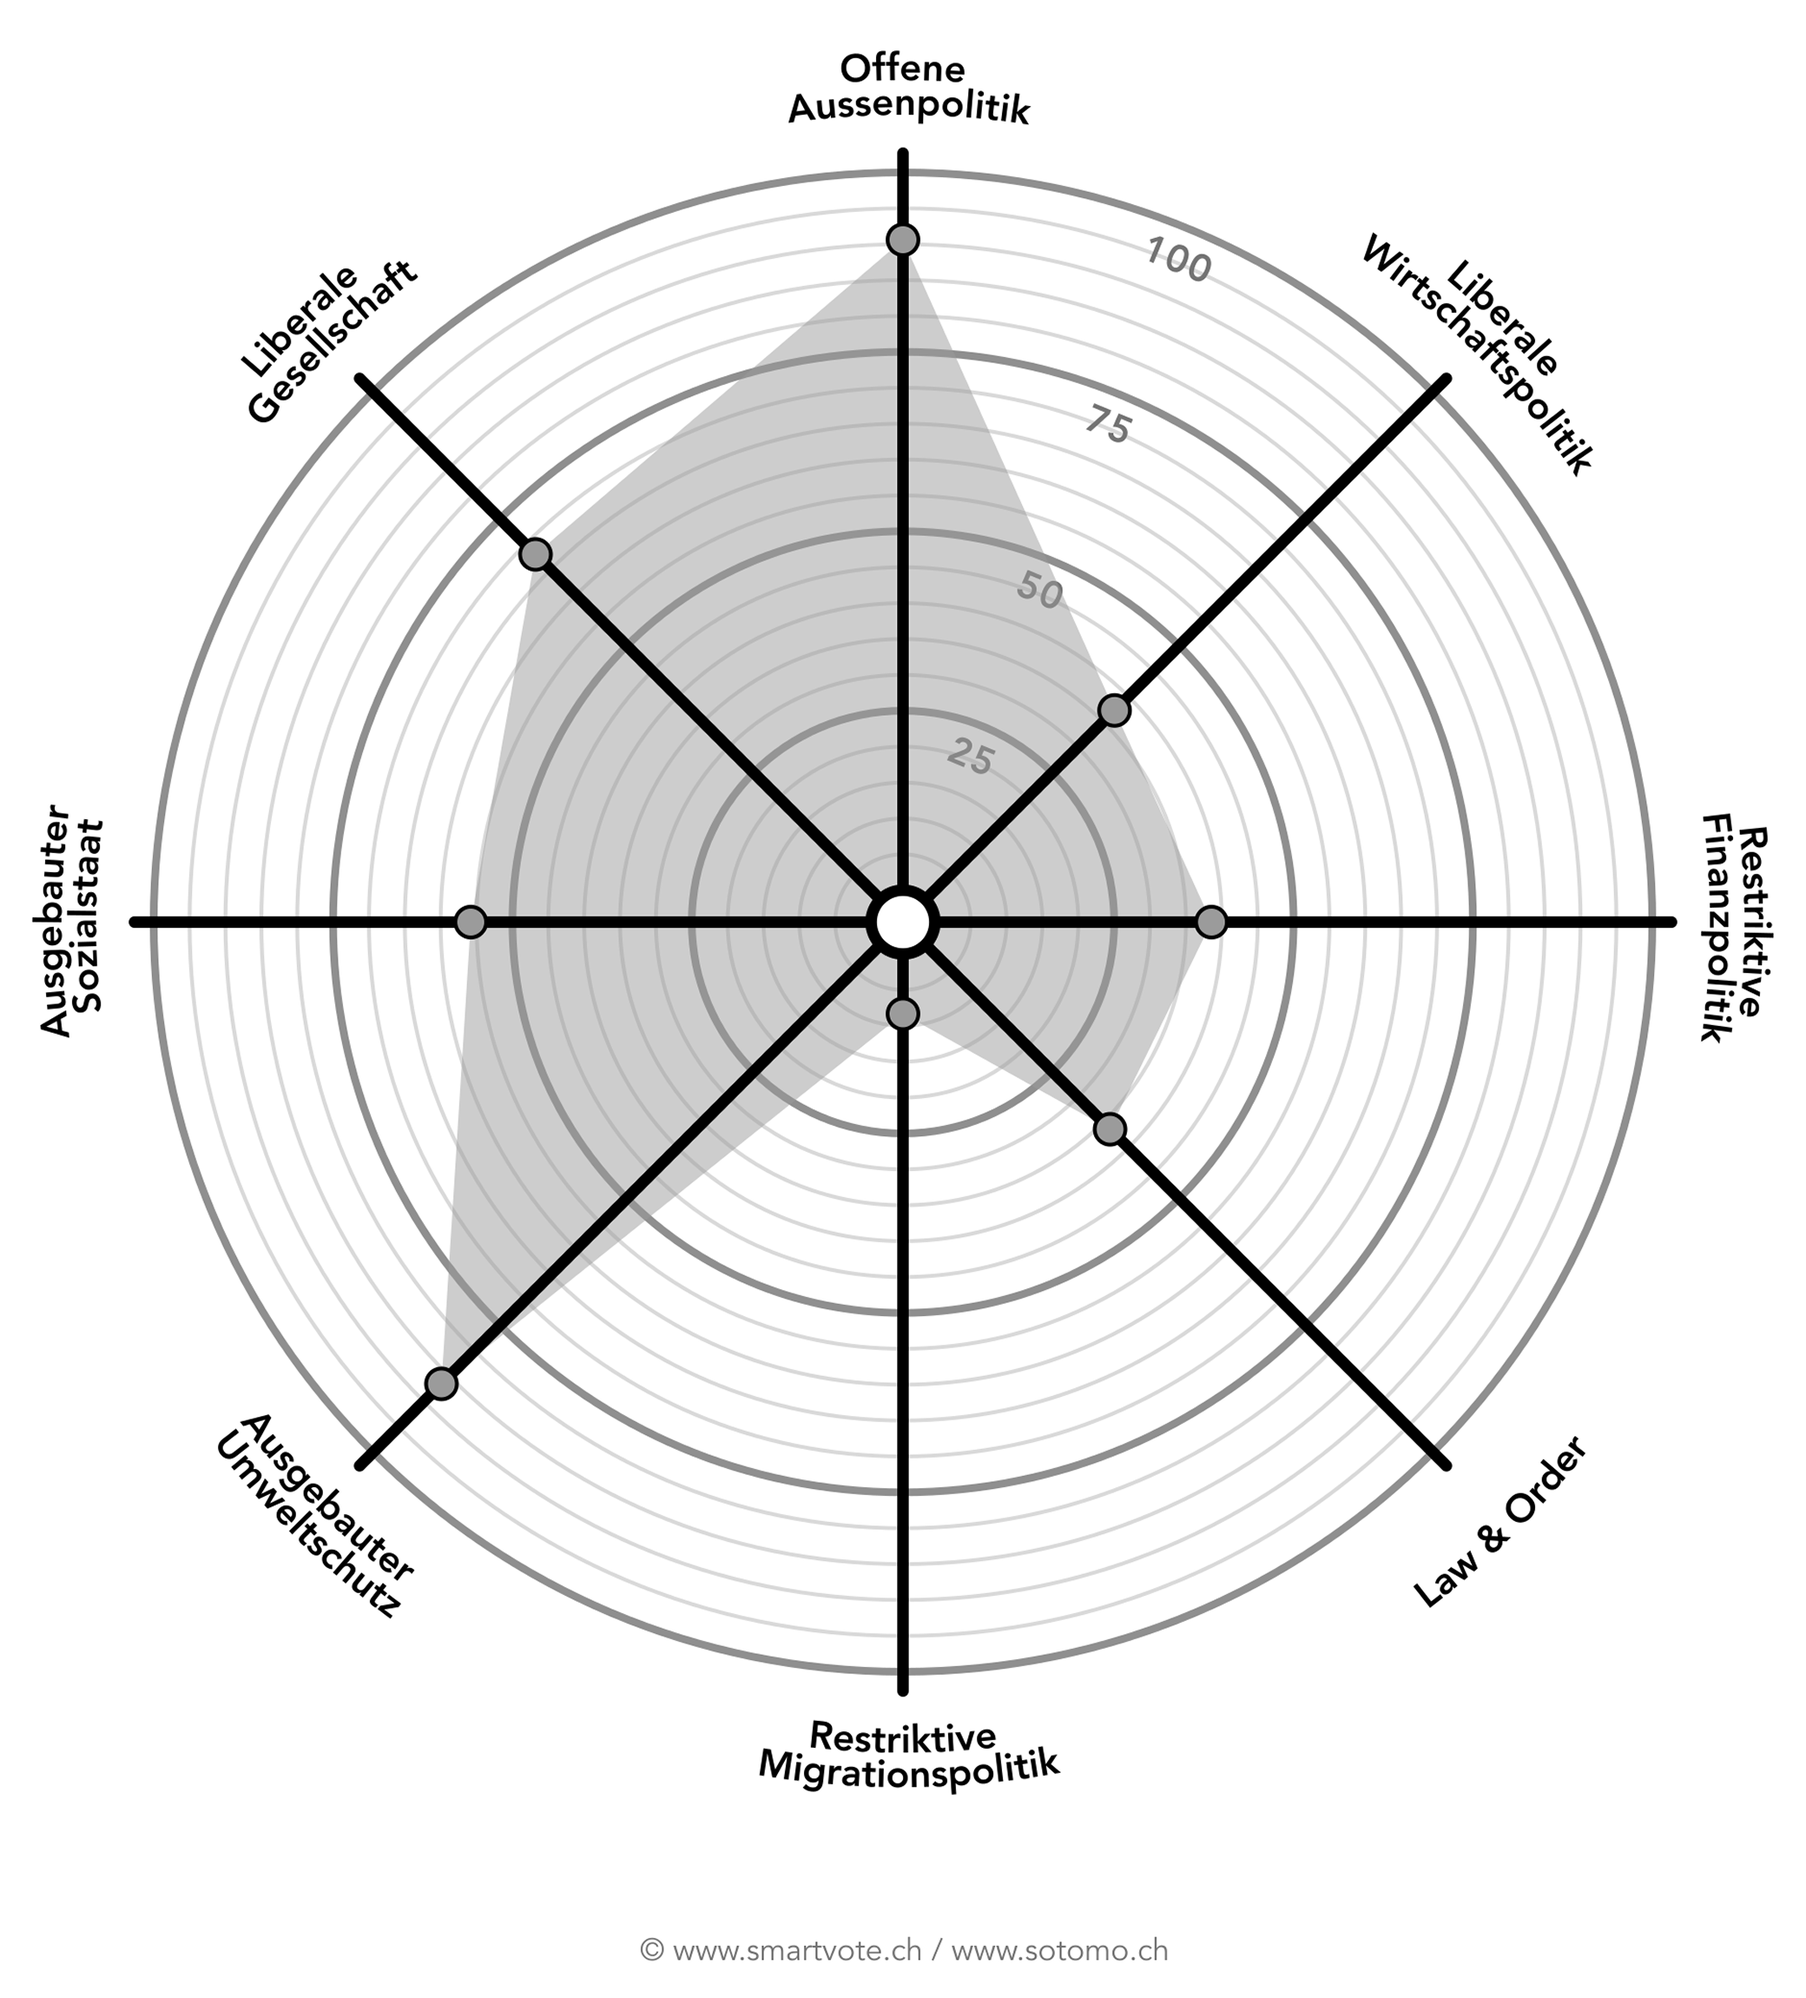
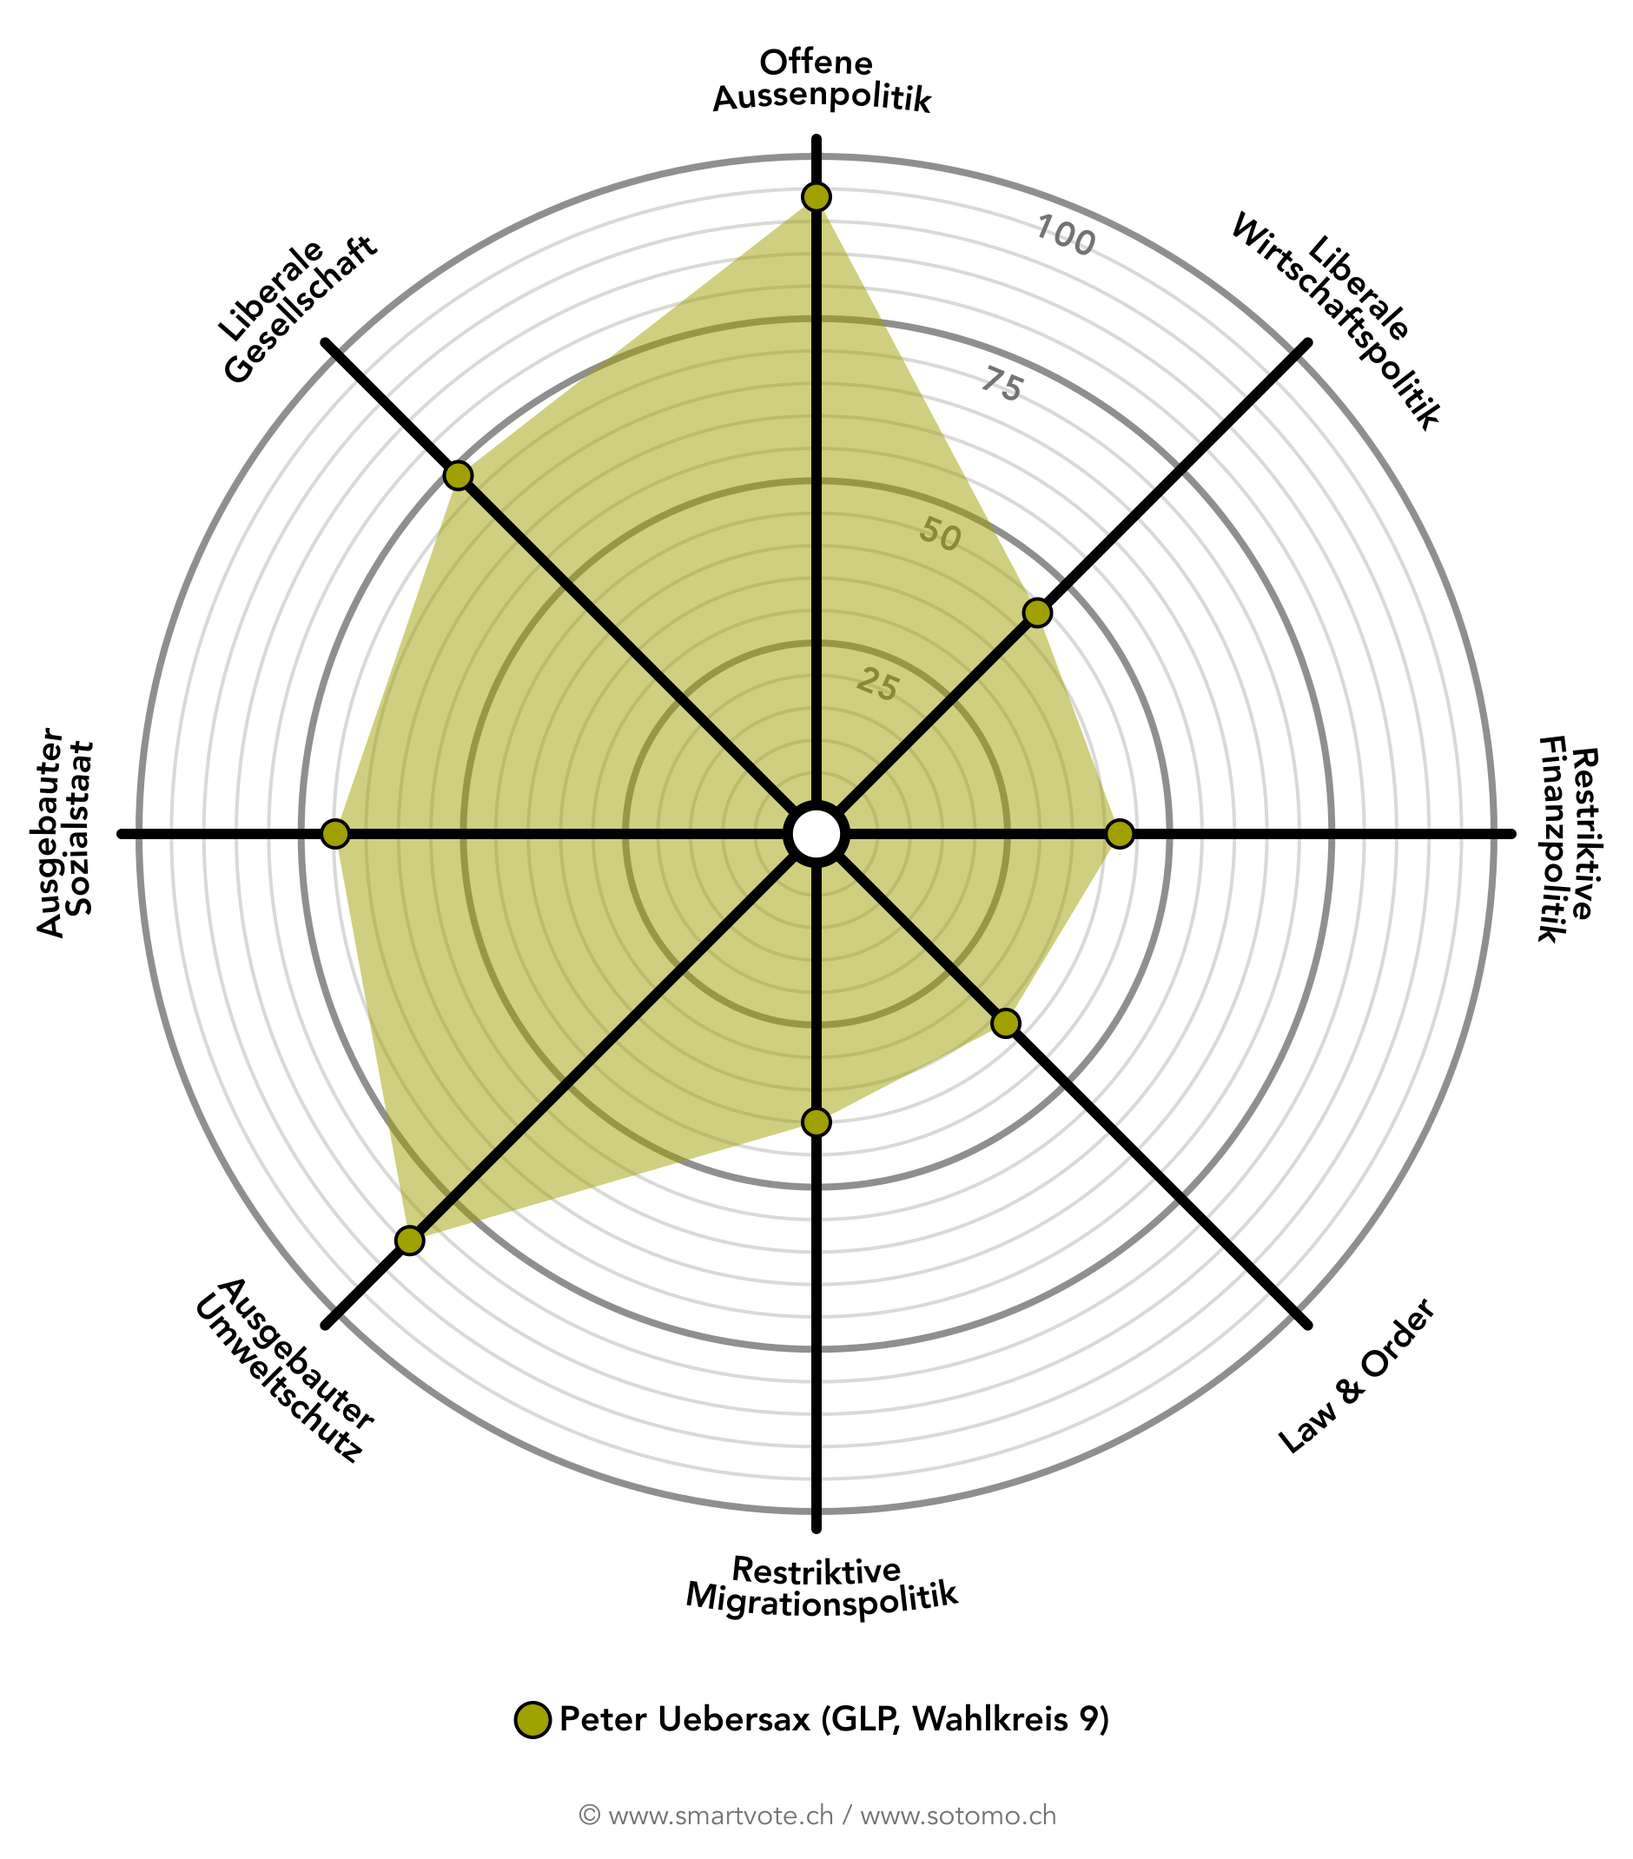
1. send email made with js. 2. medien page  updated 3. Kontakte => Kontakt

Changed region(s): [[0.0, 0.0308, 0.9872, 0.9561], [0.7713, 0.7093, 0.8947, 0.8019], [0.3085, 0.8944, 0.3702, 0.9561]]

diff --git a/pages/contacts.html b/pages/contacts.html
@@ -7,6 +7,7 @@
     <link rel="icon" href="../img/leaf.png" type="image/png">
     <link rel="stylesheet" href="../css/contacts.css" />
     <script src="../JS/burger.js" defer></script>
+    <script src="../JS/contacts.js" defer></script>
   </head>
   <body>
     <header class="header">
@@ -25,7 +26,7 @@
           </li>
           <li class="burger_menu__item"><a href="medien.html">Medien</a></li>
           <li class="burger_menu__item">
-            <a href="contacts.html">Kontakte</a>
+            <a href="contacts.html">Kontakt</a>
           </li>
         </ul>
       </nav>
@@ -46,7 +47,7 @@
       </section>
 
       <section class="contacts">
-        <h3 class="contacts__title">Kontakte</h3>
+        <h3 class="contacts__title">Kontakt</h3>
         <div class="contacts__wrapper">
           <ul class="contacts__list">
             <li class="contacts__list__item">
@@ -55,11 +56,20 @@
             >Instagram</a>, <a class="contacts__list__item__text_link" href="https://www.facebook.com/peter.uebersax.12">Facebook</a> oder <a class="contacts__list__item__text_link" href="https://www.linkedin.com/in/peter-u-022654145/">LinkedIn</a>
               </p>
             </li>
-            <li class="contacts__list__item">
+            <!-- <li class="contacts__list__item">
               <p class="contacts__list__item__text">
-                Kontaktiere mich per Mail: <a class="contacts__list__item__text_link" href="mailto:contact@peteruebersax.ch">contact@peteruebersax.ch</a>
+                Kontaktiere mich per Mail: 
+                <a href="&#109;&#97;&#105;&#108;&#116;&#111;&#58;&#99;&#111;&#110;&#116;&#97;&#99;&#116;&#64;&#112;&#101;&#116;&#101;&#114;&#117;&#101;&#98;&#101;&#114;&#115;&#97;&#120;&#46;&#99;&#104;">contact@peteruebersax.ch</a>
+                <a class="contacts__list__item__text_link" href="mailto:contact@peteruebersax.ch">contact@peteruebersax.ch</a>
               </p>
-            </li>
+            </li> -->
+
+<li class="contacts__list__item">
+  <p class="contacts__list__item__text">
+    Kontaktiere mich per Mail: <a class="contacts__list__item__text_link" id="email-link" href="#">📧 Email laden...</a>
+  </p>
+</li>
+
             <li class="contacts__list__item">
               <p class="contacts__list__item__text">
                 Triff mich an einer der Folgenden

diff --git a/pages/medien.html b/pages/medien.html
@@ -20,14 +20,14 @@
       <li class="burger_menu__item"><a href="../index.html">Über mich</a></li>
       <li class="burger_menu__item"><a href="politic.html">Meine Politik</a></li>
       <li class="burger_menu__item"><a href="medien.html">Medien</a></li>
-      <li class="burger_menu__item"><a href="contacts.html">Kontakte</a></li>
+      <li class="burger_menu__item"><a href="contacts.html">Kontakt</a></li>
         </ul>
       </nav>
       <ul class="header__block">
     <li class="header__about_me"><a href="../index.html">Über mich</a></li>
     <li class="header__my_politic"><a href="politic.html">Meine Politik</a></li>
     <li class="header__media"><a href="medien.html">Medien</a></li>
-    <li class="header__contacts"><a href="contacts.html">Kontakte</a></li>
+    <li class="header__contacts"><a href="contacts.html">Kontakt</a></li>
       </ul>
     </header>
     <main class="main">
@@ -39,7 +39,7 @@
 
       <section class="medien">
         <h3 class="medien__title">Medien</h3>
-        <img class="medien__img" src="../img/medien.png" alt="">
+        <a href="https://smartvote.ch/de/elections/26_st_zuerich_leg/candidacies/73060"> <img class="medien__img" src="../img/medien.png" alt=""></a>
       </section>
            <img class="politic_img" src="../img/Peter_flipped.png" alt="" />
     </main>

diff --git a/index.html b/index.html
@@ -22,14 +22,14 @@
       <li class="burger_menu__item"><a href="index.html">Über mich</a></li>
       <li class="burger_menu__item"><a href="./pages/politic.html">Meine Politik</a></li>
       <li class="burger_menu__item"><a href="./pages/medien.html">Medien</a></li>
-      <li class="burger_menu__item"><a href="./pages/contacts.html">Kontakte</a></li>
+      <li class="burger_menu__item"><a href="./pages/contacts.html">Kontakt</a></li>
     </ul>
   </nav>
   <ul class="header__block">
     <li class="header__about_me"><a href="index.html">Über mich</a></li>
     <li class="header__my_politic"><a href="./pages/politic.html">Meine Politik</a></li>
     <li class="header__media"><a href="./pages/medien.html">Medien</a></li>
-    <li class="header__contacts"><a href="./pages/contacts.html">Kontakte</a></li>
+    <li class="header__contacts"><a href="./pages/contacts.html">Kontakt</a></li>
   </ul>
     </header>
     <main class="main">

diff --git a/pages/politic.html b/pages/politic.html
@@ -20,14 +20,14 @@
       <li class="burger_menu__item"><a href="../index.html">Über mich</a></li>
       <li class="burger_menu__item"><a href="politic.html">Meine Politik</a></li>
       <li class="burger_menu__item"><a href="medien.html">Medien</a></li>
-      <li class="burger_menu__item"><a href="contacts.html">Kontakte</a></li>
+      <li class="burger_menu__item"><a href="contacts.html">Kontakt</a></li>
         </ul>
       </nav>
       <ul class="header__block">
     <li class="header__about_me"><a href="../index.html">Über mich</a></li>
     <li class="header__my_politic"><a href="politic.html">Meine Politik</a></li>
     <li class="header__media"><a href="medien.html">Medien</a></li>
-    <li class="header__contacts"><a href="contacts.html">Kontakte</a></li>
+    <li class="header__contacts"><a href="contacts.html">Kontakt</a></li>
       </ul>
     </header>
     <main class="main">

diff --git a/JS/contacts.js b/JS/contacts.js
@@ -1,0 +1,16 @@
+// const email = document.querySelector('.contacts__list__item__text');
+
+// // Obfuscate email to prevent scraping
+// email.addEventListener('click', (e) => {
+// email.write('<a href="mailto:' + 'contact' + '@' + 'peteruebersax.ch">' + 'contact@peteruebersax.ch' + '</a>');
+// })
+
+document.addEventListener('DOMContentLoaded', function() {
+  const link = document.getElementById('email-link');
+  if (link) {
+    const user = 'contact';
+    const domain = 'peteruebersax.ch';
+    link.href = 'mailto:' + user + '@' + domain;
+    link.textContent = user + '@' + domain;
+  }
+});

diff --git a/css/contacts.css b/css/contacts.css
@@ -237,6 +237,7 @@ body {
   font-size: 24px;
   font-family: "Inter", sans-serif;
   position: relative;
+  z-index: -1;
 }
 
 .main {

diff --git a/css/medien.css b/css/medien.css
@@ -236,6 +236,7 @@ body {
   font-size: 24px;
   font-family: "Inter", sans-serif;
   position: relative;
+  z-index: -5;
 }
 
 .main {

diff --git a/scss/contacts.scss b/scss/contacts.scss
@@ -23,6 +23,7 @@ body {
   font-size: 24px;
   font-family: "Inter", sans-serif;
   position: relative;
+  z-index: -1;
 }
 
 .main {

diff --git a/scss/medien.scss b/scss/medien.scss
@@ -22,6 +22,7 @@ body {
   font-size: 24px;
   font-family: "Inter", sans-serif;
   position: relative;
+  z-index: -5;
 }
 
 .main {
